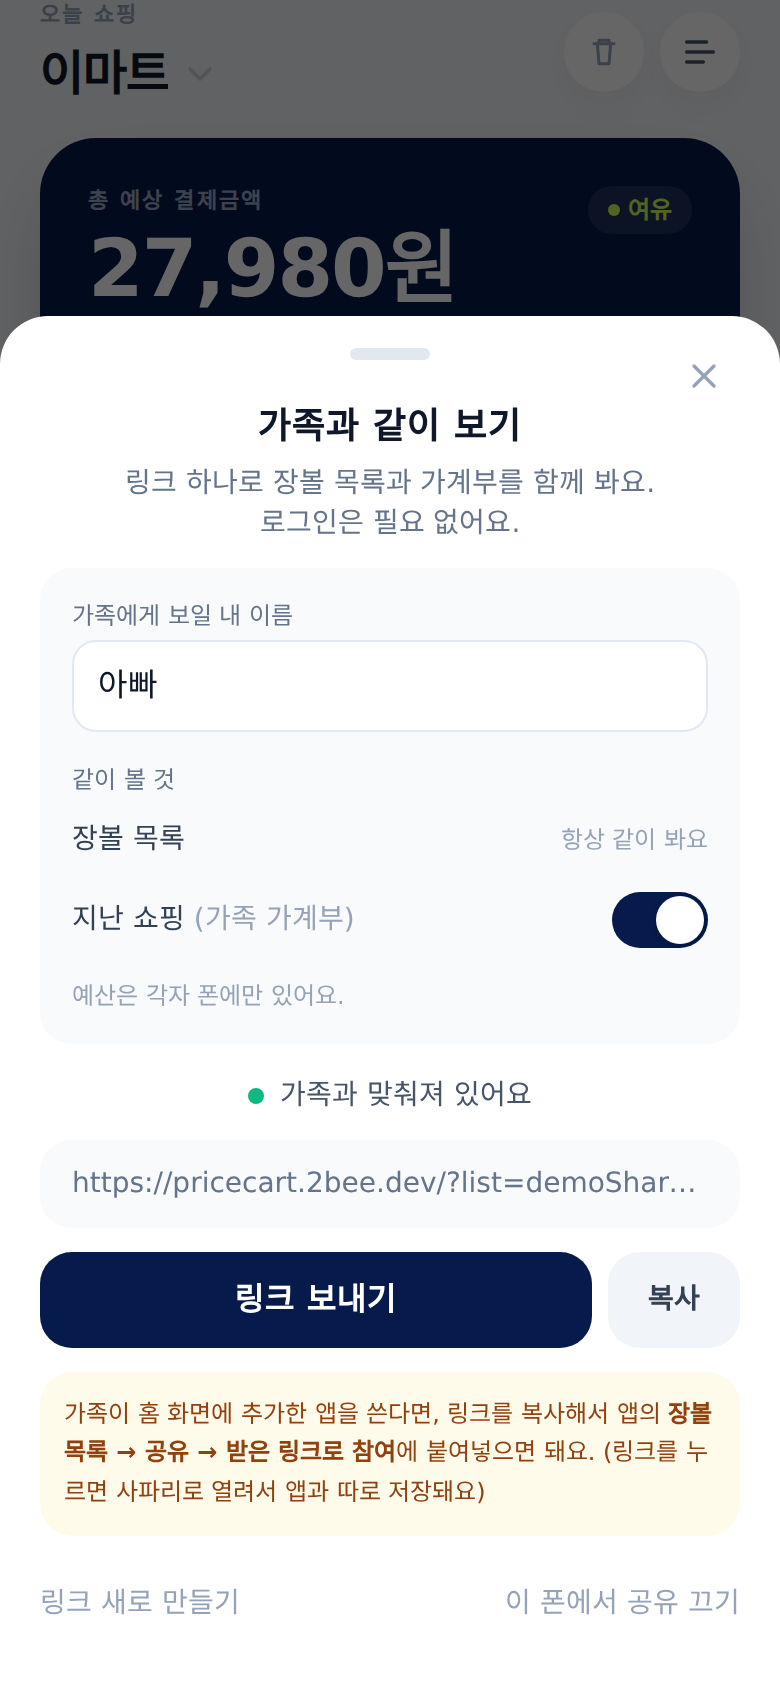
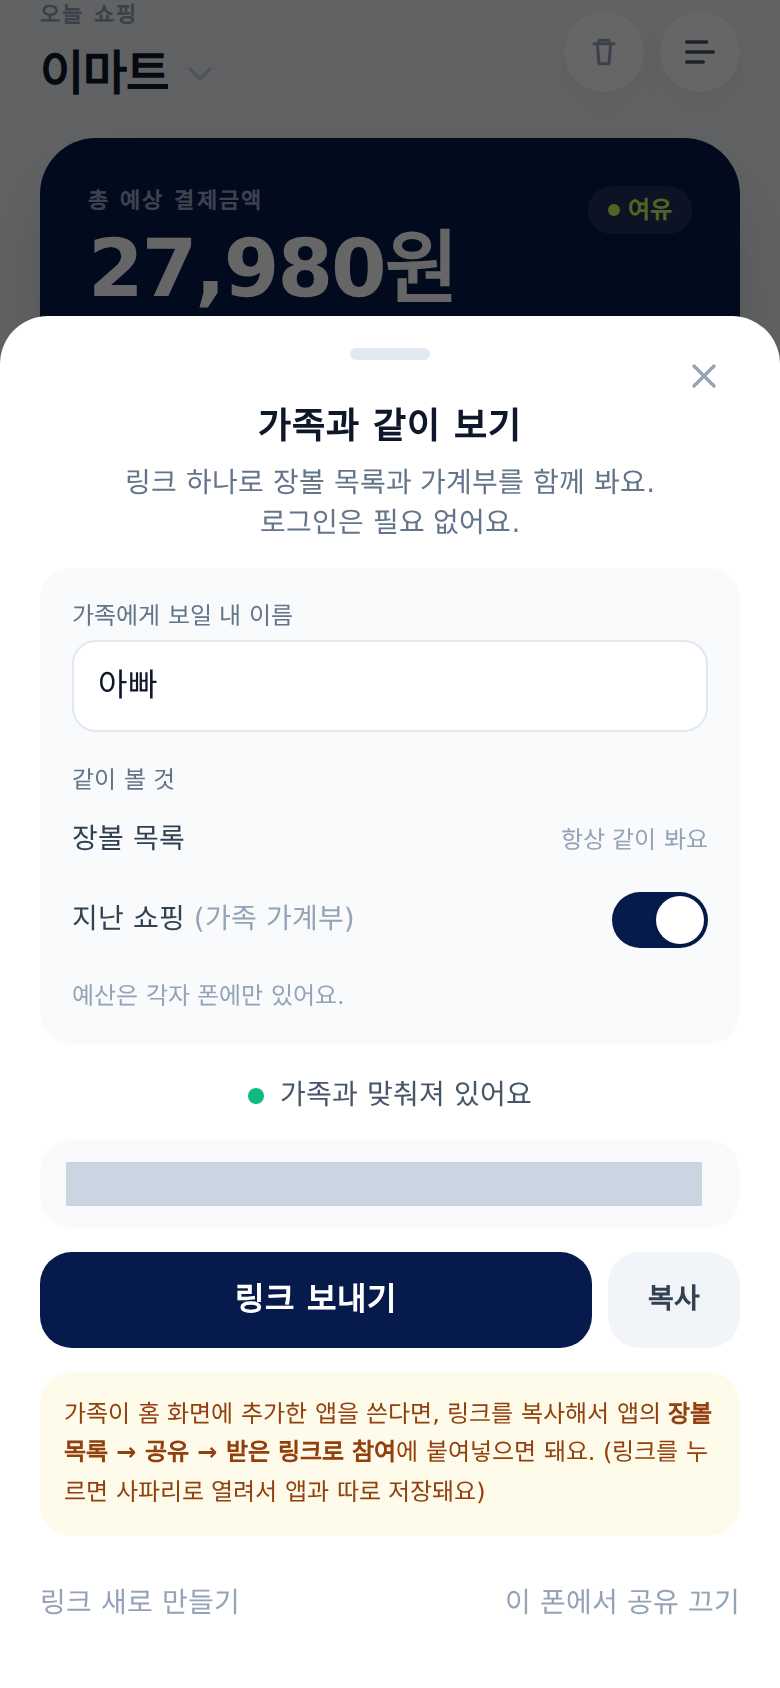
PriceCart: 서비스 주소 가림(머리말 삭제, 공유 화면 캡처의 링크 덮기)

Changed region(s): [[0.0615, 0.6777, 0.9231, 0.7393]]

diff --git a/pricecart/README.md b/pricecart/README.md
@@ -1,8 +1,5 @@
 # PriceCart 장보기 계산기
 
-> 개인 프로젝트, 2026.07 ~ 운영 중 (가족이 실제로 쓰고 있습니다)<br>
-> 서비스 [pricecart.2bee.dev](https://pricecart.2bee.dev)
-
 ![PriceCart 소개 이미지](images/hero.jpg)
 
 마트에서 장을 보다 보면 계산대에 가기 전까지 얼마를 썼는지 잘 모릅니다. 할인 상품, 1+1 행사, 정가가 섞여 있으면 머릿속으로 더하기도 어렵습니다.
